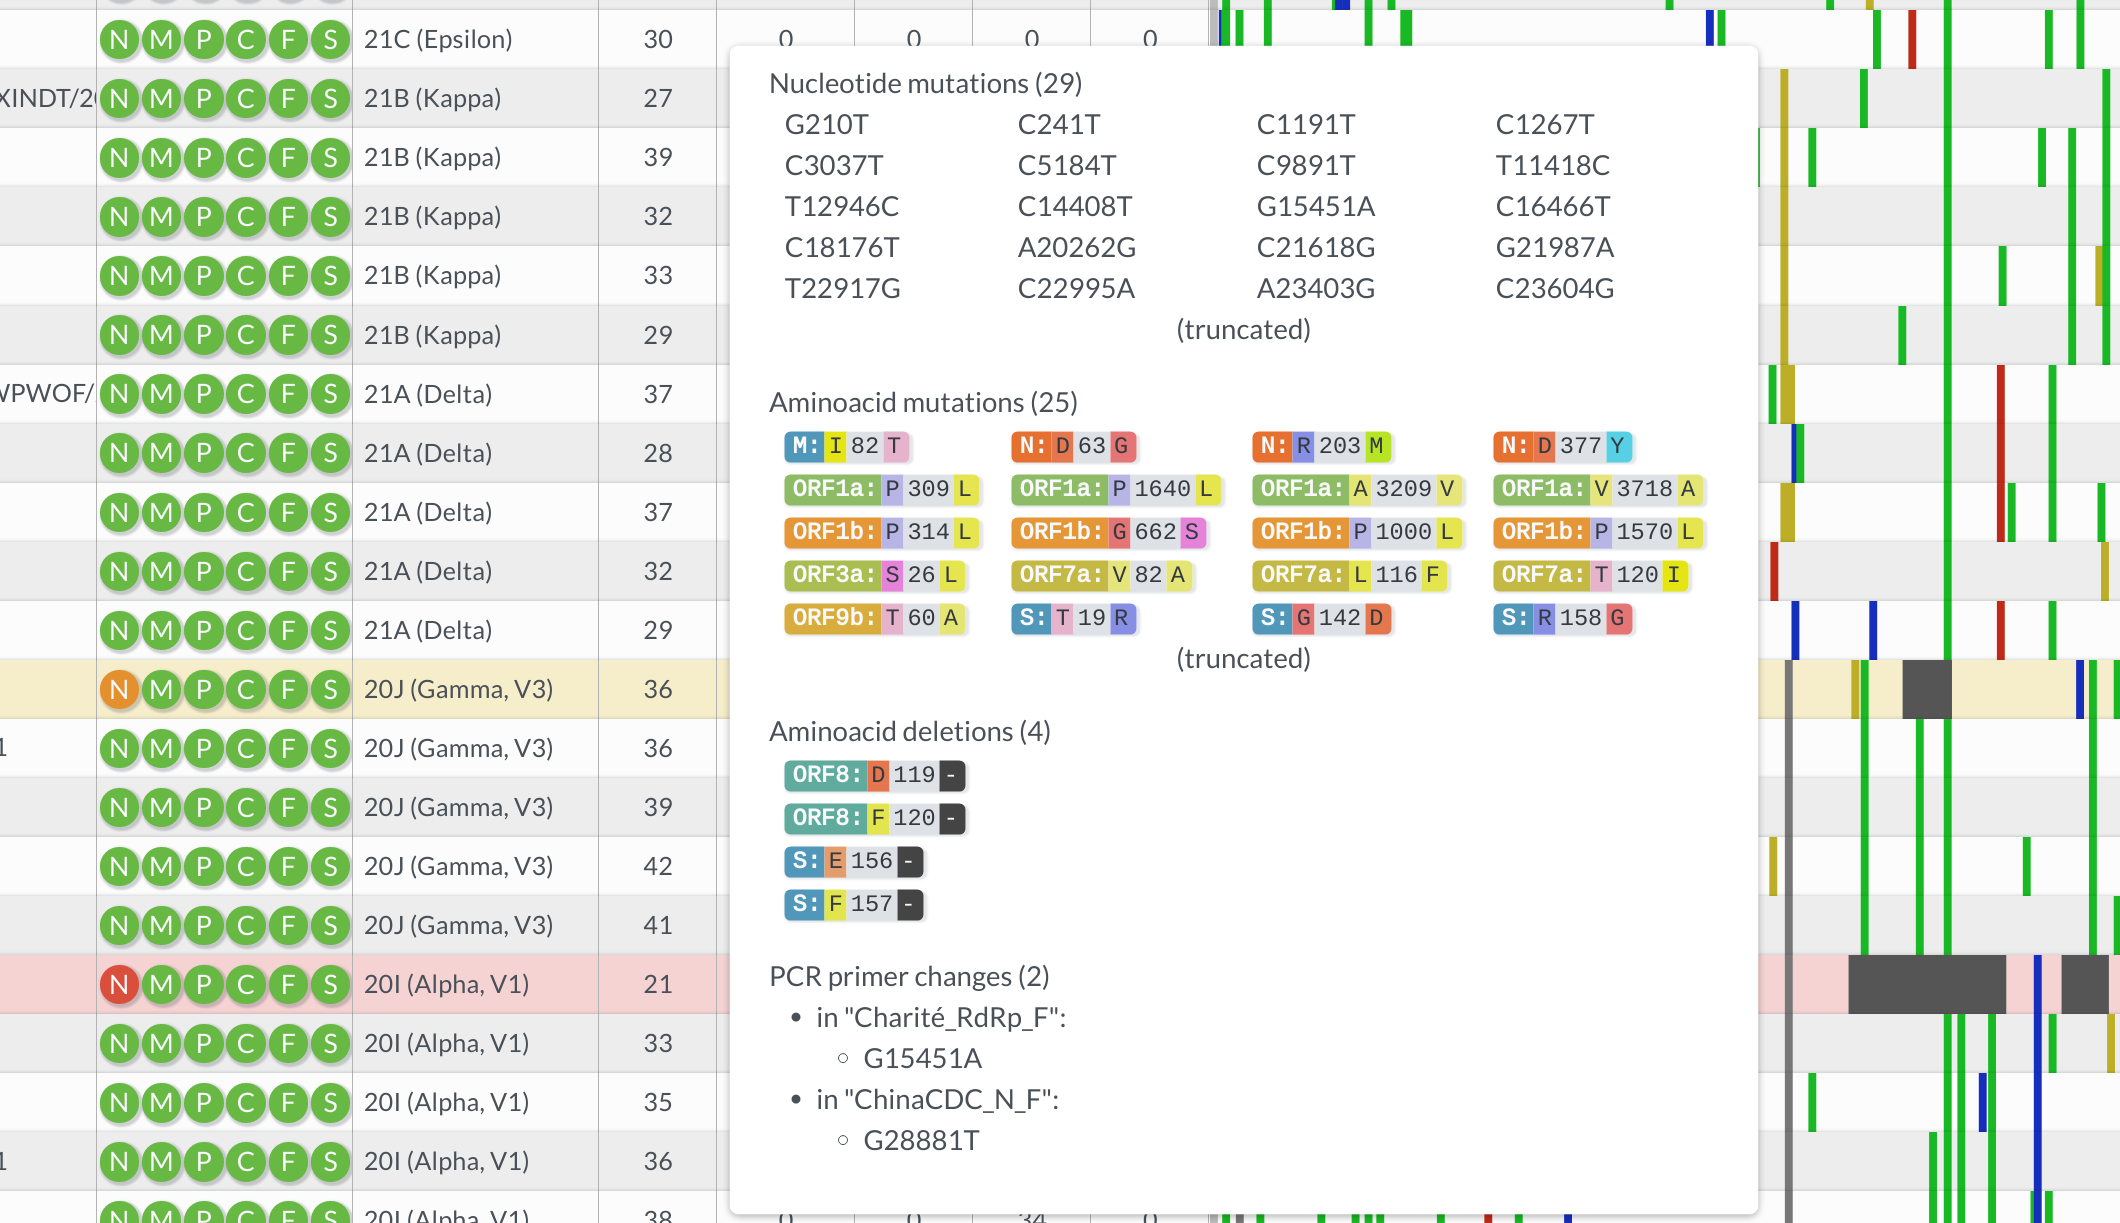
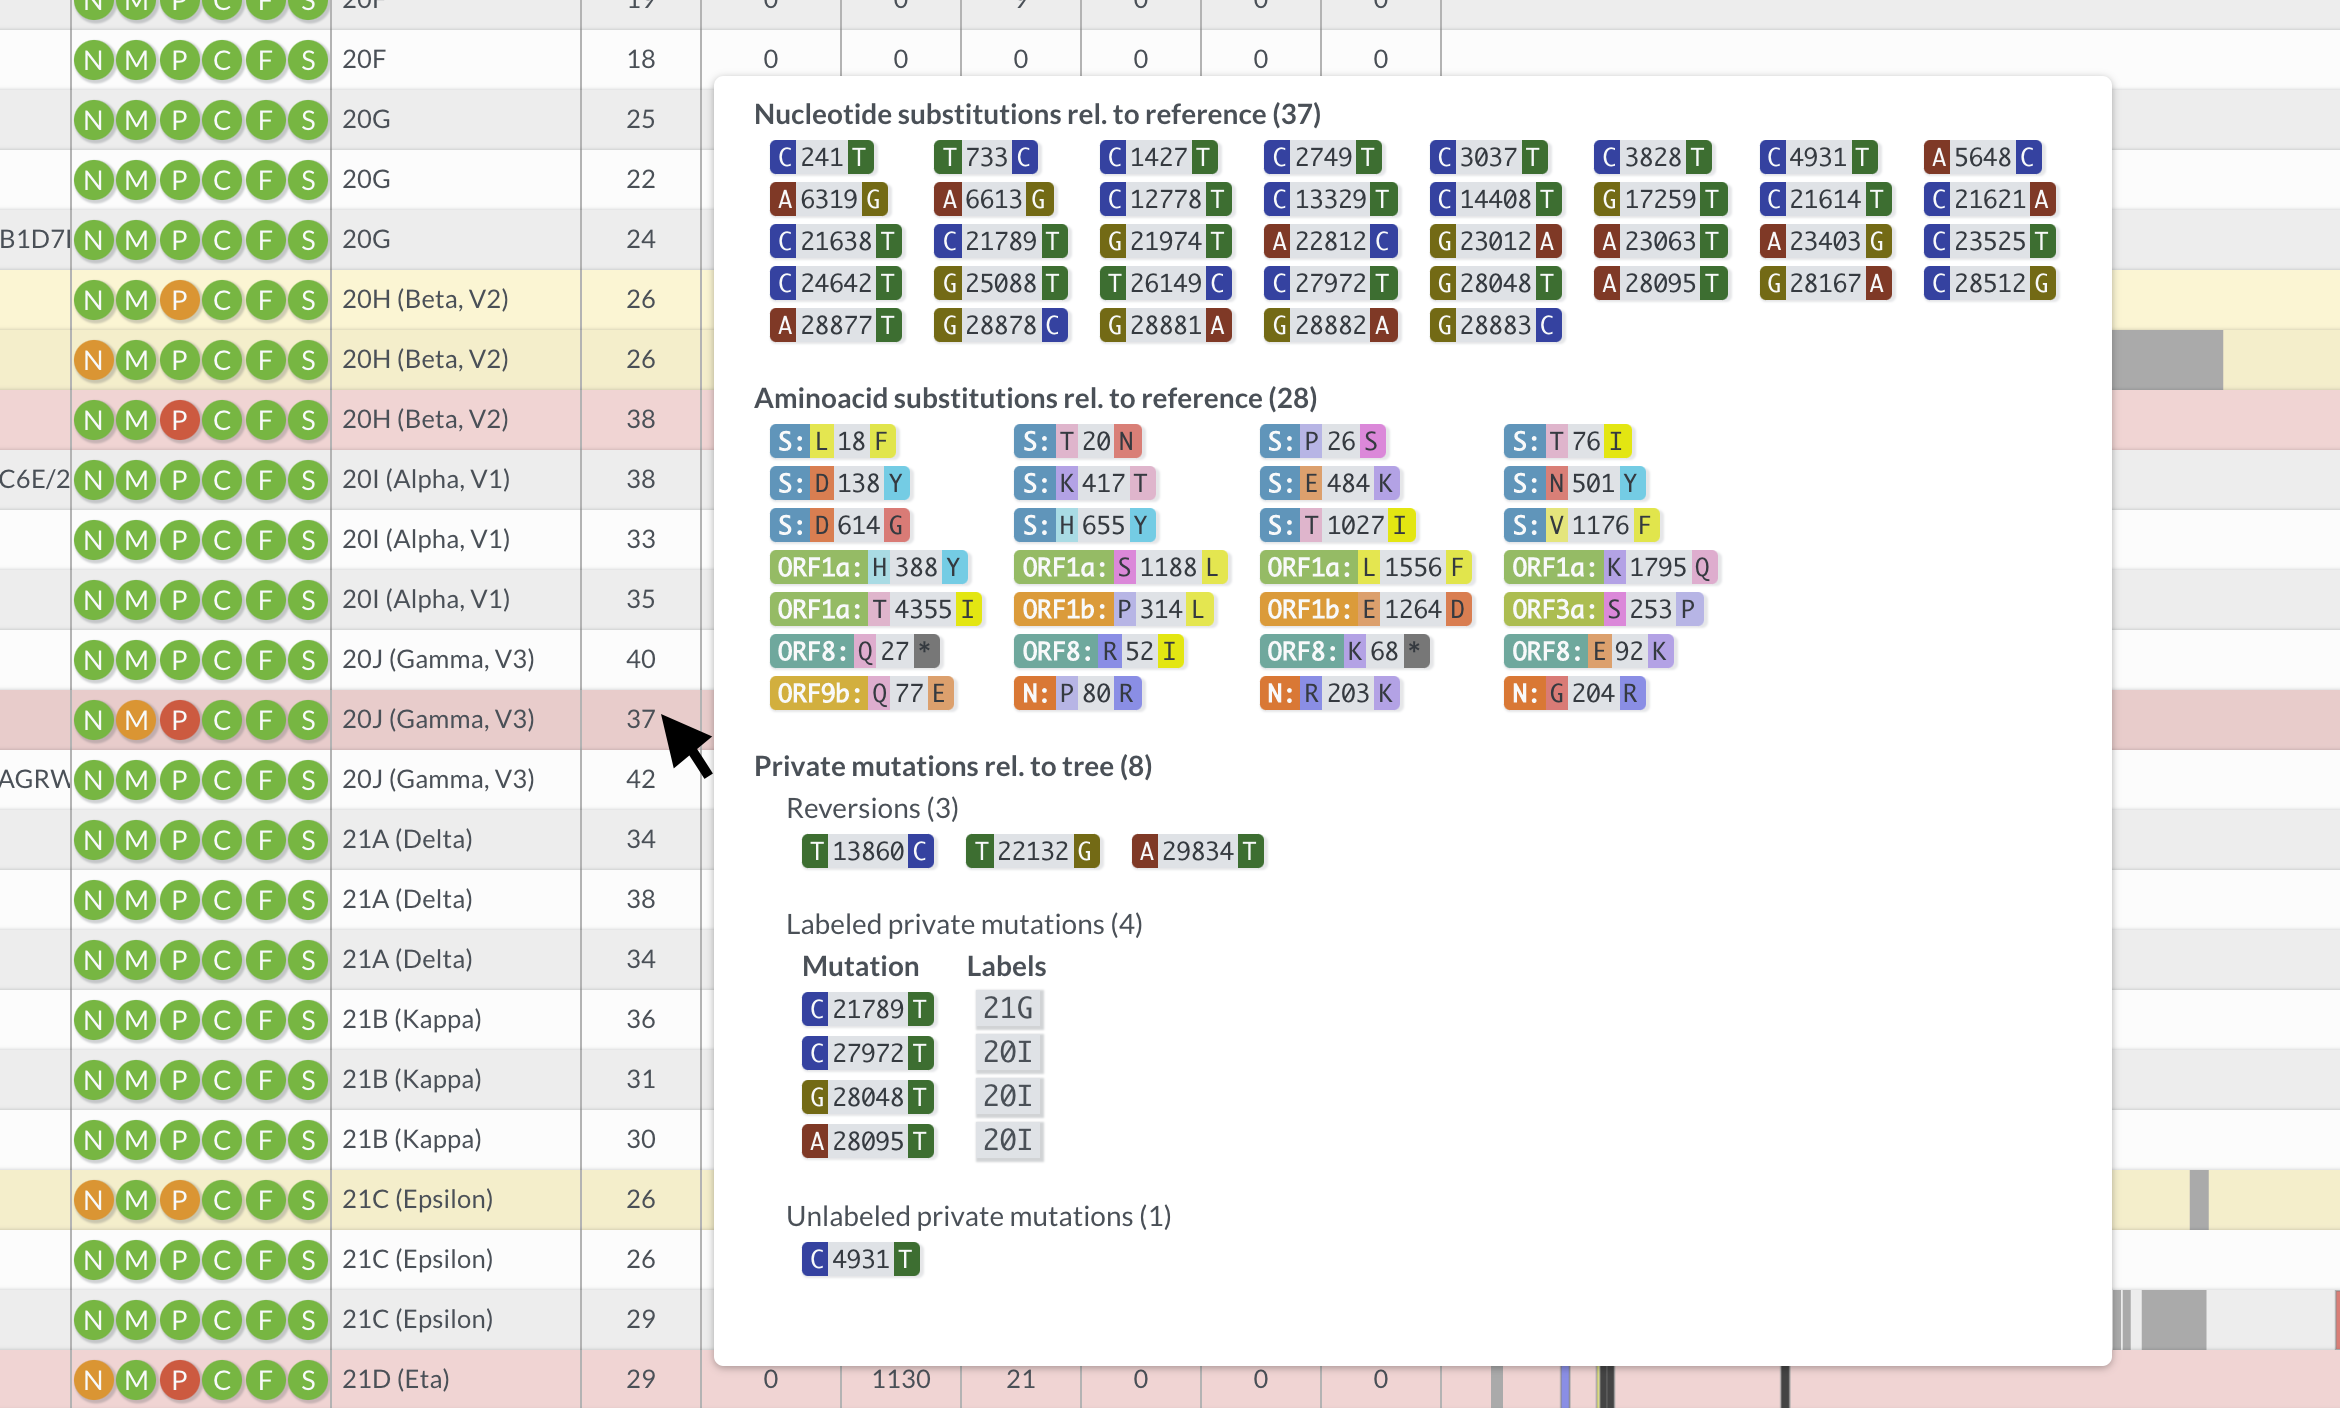
feat: explain private mutation breakdown in docs

diff --git a/docs/user/nextclade-web.md b/docs/user/nextclade-web.md
@@ -88,8 +88,18 @@ The result table further displays for each sequence:
 - "Ns": number of missing nucleotides indicated by *N*
 - "Gaps": number of nucleotides that are deleted with respect to the reference sequence
 - "Ins.": number of nucleotides that are inserted with respect to the reference sequence
+- "FS": Number of uncommon frame shifts (total number, including common frame shifts are in parentheses)
+- "SC": Number of uncommon premature stop codons (total number, including common premature stops are in parentheses)
 
-Hovering over table entries reveals more detailed information. For example, hovering over the number of mutations reveals which nucleotides and aminoacids have changed with respect to the reference. Changes in bases that are used by common primers are also displayed.
+Hovering over table entries reveals more detailed information. For example, hovering over the number of mutations reveals which nucleotides and aminoacids have changed with respect to the reference.
+
+Since version `1.13.0`, Nextclade also shows which mutations differ from the nearest neighbor on the reference tree, termed. These so-called _private_ mutations are are split into:
+
+- Reversions: mutations back to reference, often a sign of sequencing problems
+- Labeled: Mutations that are known, for example because they occur often in a clade. If multiple labeled mutations from the same clade appear, it is a sign of contamination, co-infection or recombination.
+- Unlabeled: Mutations that are neither reversions nor labeled.
+
+In the screenshot below, the mouse hovers over a _20J (Gamma)_ sequence. The tooltip shows there are 3 reversion and 4 labeled mutations, indicative of sequence quality problems, potentially a contamination with _20I (Alpha)_.
 
 ![Mutations tooltip](assets/web_mut-tooltip.png)
 
@@ -99,7 +109,7 @@ To the right of the table you can see the alignment with mutations and regions w
 
 ![Alignment view](assets/web_alignment.png)
 
-You can zoom into a gene by clicking on the respective gene at the bottom.
+You can zoom into a gene by clicking on the respective gene at the bottom, or selecting the gene of interest from the dropdown at the top.
 
 ![Select Gene](assets/web_click-gene.png)
 
